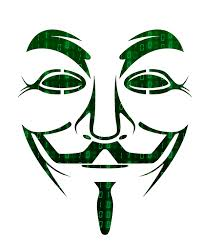
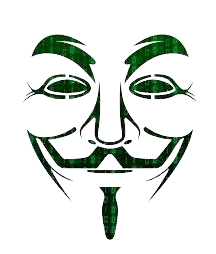
Add files via upload
Added background color for image and hover

Changed region(s): [[0.0874, 0.1148, 0.932, 0.9754]]

diff --git a/index.html b/index.html
@@ -11,7 +11,7 @@
   <body>
     <table cellspacing="20">
       <tr>
-        <td><img id="bhareth" src="Bhareth.jpeg" alt="Bhareth's Profile Picture"></td>
+        <td><img id="bhareth" src="bn.png" alt="Bhareth's Profile Picture"></td>
         <td><h1>Bhareth Narayann Prasad 😎</h1>
           <p>
             <em>Lead Engineer-<strong>Test</strong> at <strong><a href="https://www.bluejeans.com/">BlueJeans</a></strong></em>

diff --git a/styles.css b/styles.css
@@ -24,9 +24,14 @@ body{
       color:#035aa6;
   }
 
-  /*********************************************Class Selectors*********************************/
-
-
-  #bhareth {
-      border-radius: 100%;
+  img{
+      background-color: white;
   }
+
+  /*********************************************id Selectors*********************************/
+
+
+  #bhareth:hover {
+    background-color: gold;
+    border-radius: 100%;
+}
